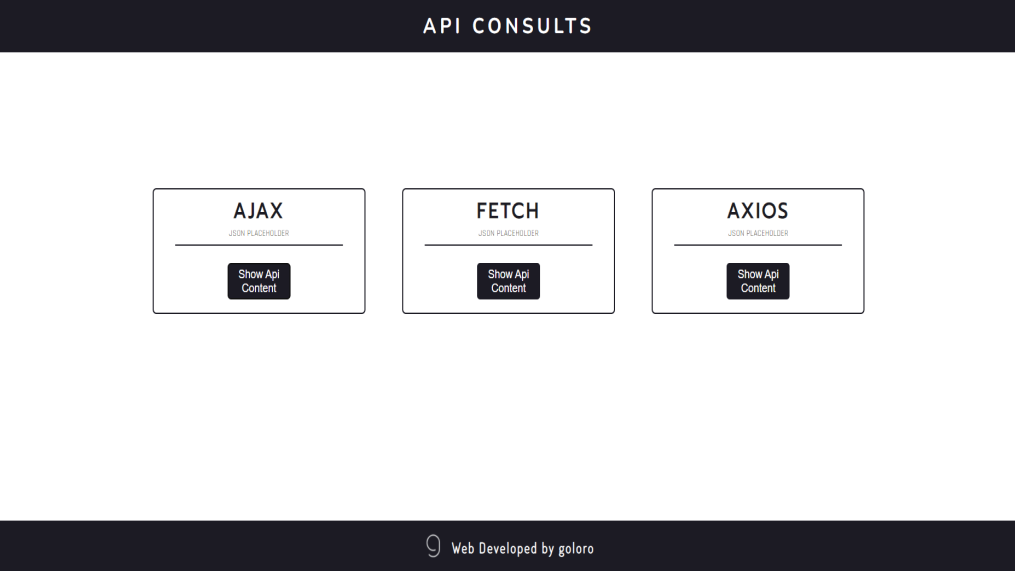
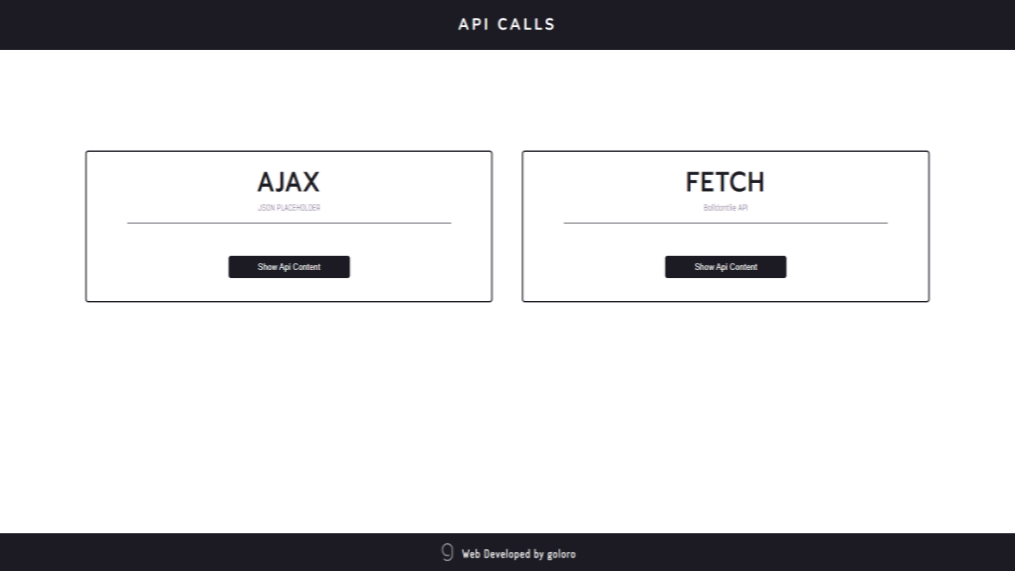
first commit

diff --git a/index.html b/index.html
@@ -133,7 +133,7 @@
                         <div class="item">
                             <div class="cabeceraItem">
                                 <img src="Images/folder.png" width="30" height="30">
-                                <h3 id="Titulo">API Consults</h3>
+                                <h3 id="Titulo">API Calls</h3>
                                 <a id="gitHub" href="https://github.com/goloro/ApiConsults" target="blank"><img src="Images/github_logo_blue.png" width="25" height="25"></a>
                             </div>
                             <a id="aWebImage" href="https://goloro.github.io/ApiConsults/"><img id="webImage" src="Images/Webs/ApiConsults.png"></a>
@@ -147,7 +147,7 @@
                         <div class="item">
                             <div class="cabeceraItem">
                                 <img src="Images/folder.png" width="30" height="30">
-                                <h3 id="Titulo">Tienda Libros JPA</h3>
+                                <h3 id="Titulo">Book Shop JPA</h3>
                                 <a id="gitHub" href="https://github.com/goloro/ApiConsults" target="blank"><img src="Images/github_logo_blue.png" width="25" height="25"></a>
                             </div>
                             <a id="aWebImage" href=""><img id="webImage" src="Images/Webs/ComingSoon.png"></a>

diff --git a/style-responsive.css b/style-responsive.css
@@ -1,6 +1,39 @@
 /* PC GRANDE */
-@media screen and (max-width: 2000px) and (min-width: 1500px) {
-    
+@media screen and (max-width: 3000px) and (min-width: 1500px) {
+    #tituloPortada, #tituloAboutMe, #tituloSkills {
+        width: 15%;
+    }
+    .lineaPortada {
+        width: 59%;
+    }
+    .projectsContent {
+        padding-top: 0%;
+    }
+    #skills {
+        margin-top: 1%;
+        margin-bottom: 7%;
+    }
+    .aboutMeContent {
+        padding-bottom: 5%;
+        margin: 4% auto 0% auto
+    }
+    .SkillsContent {
+        margin-top: 2.5%;
+    }
+    .SkillsContent img {
+        margin-bottom: 200px;
+    }
+    #skIMG {
+        margin-right: 650px;
+        margin-left: 10px;
+    }
+    .CV {
+        margin: auto 12% auto 0%;
+    }
+    #map {
+        width: 50%;
+        height: 600px;
+    }
 }
 
 /* PC PORTATIL */

diff --git a/style.css b/style.css
@@ -305,11 +305,11 @@ body {
 }
 #skills {
     margin-top: 7%;
+    margin-bottom: 5%;
 }
 .skills {
     display: flex;
     width: 80%;
-    margin-bottom: 5%;
 }
 .SkillsContent {
     display: grid;
